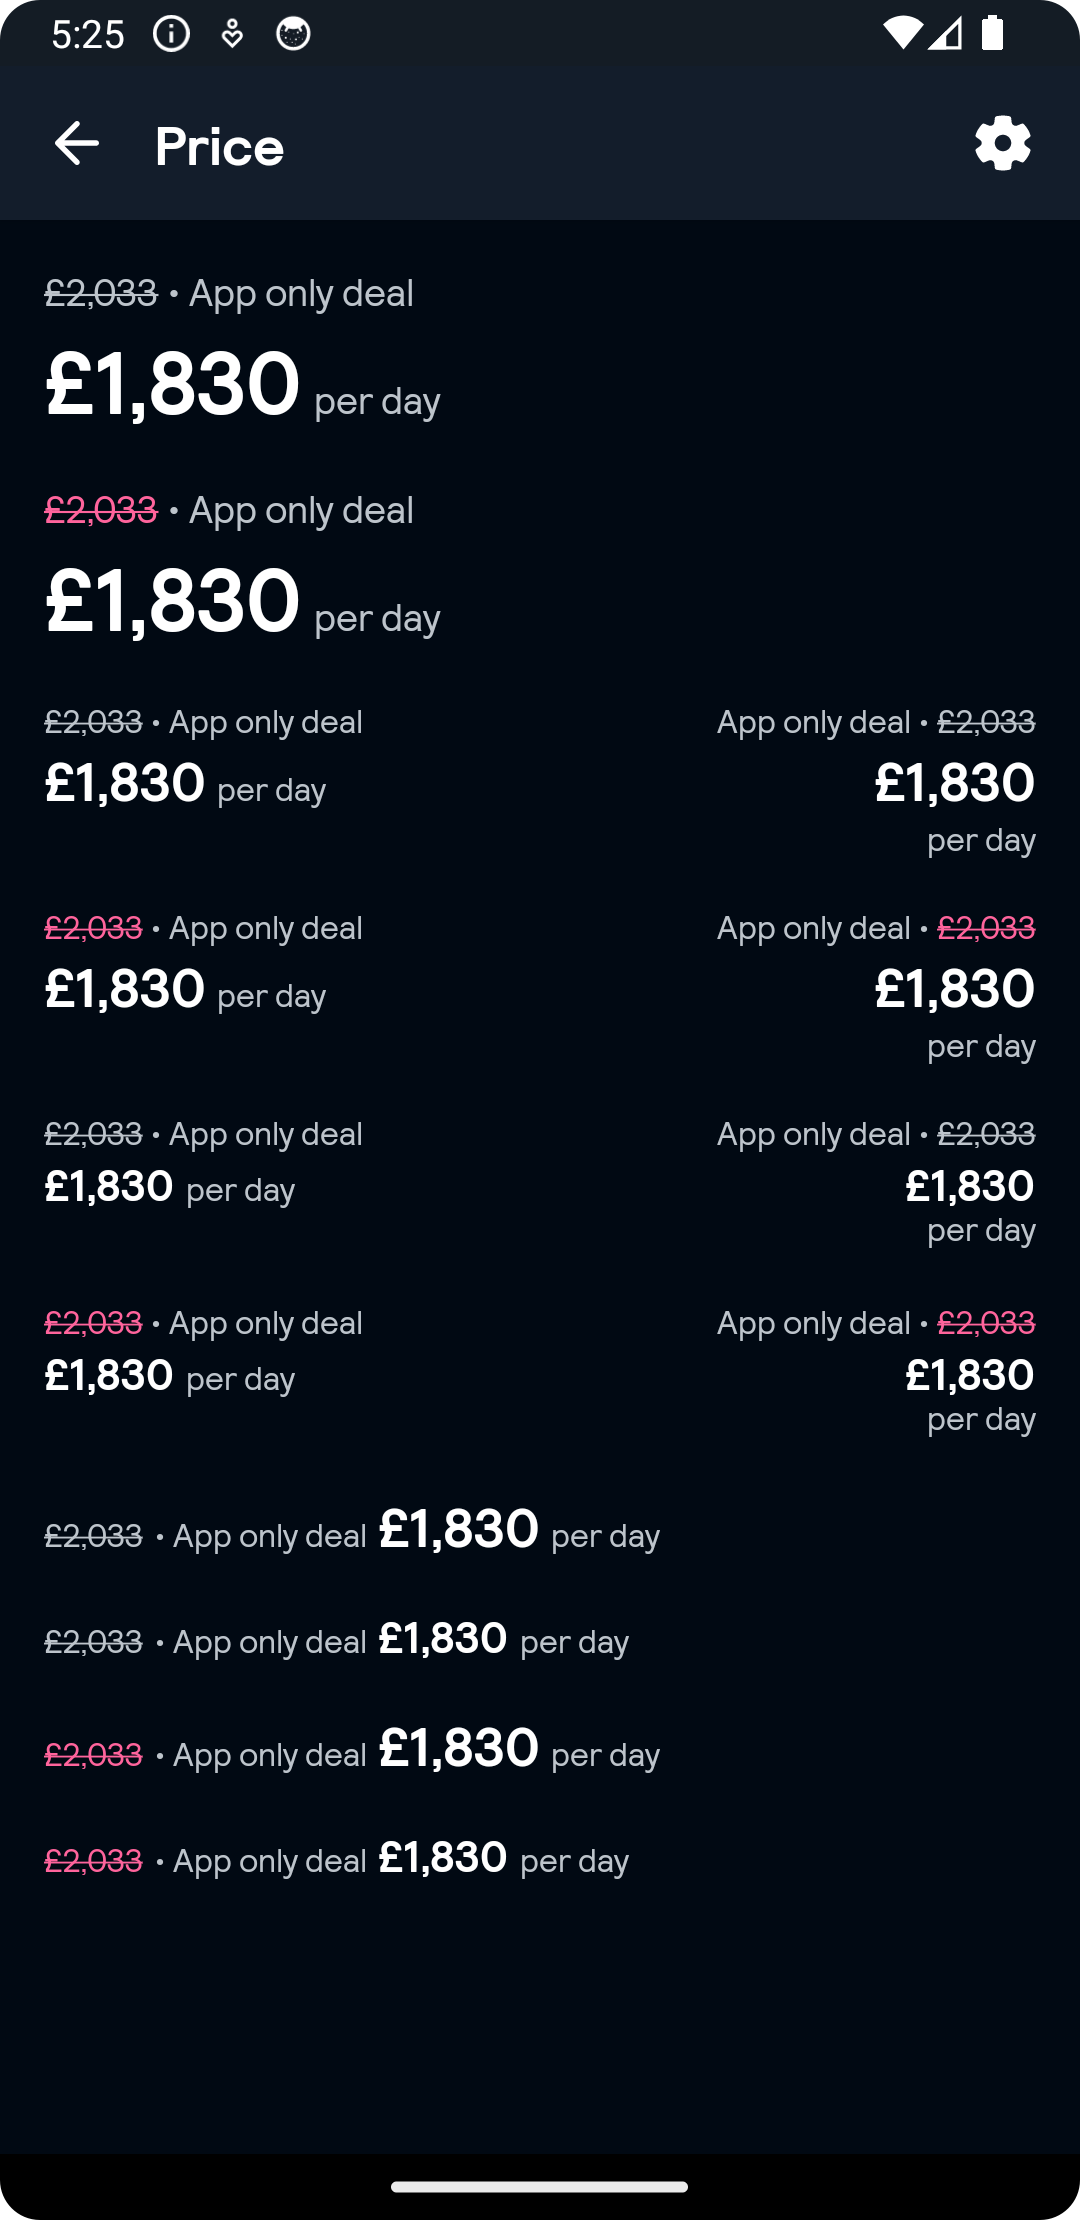
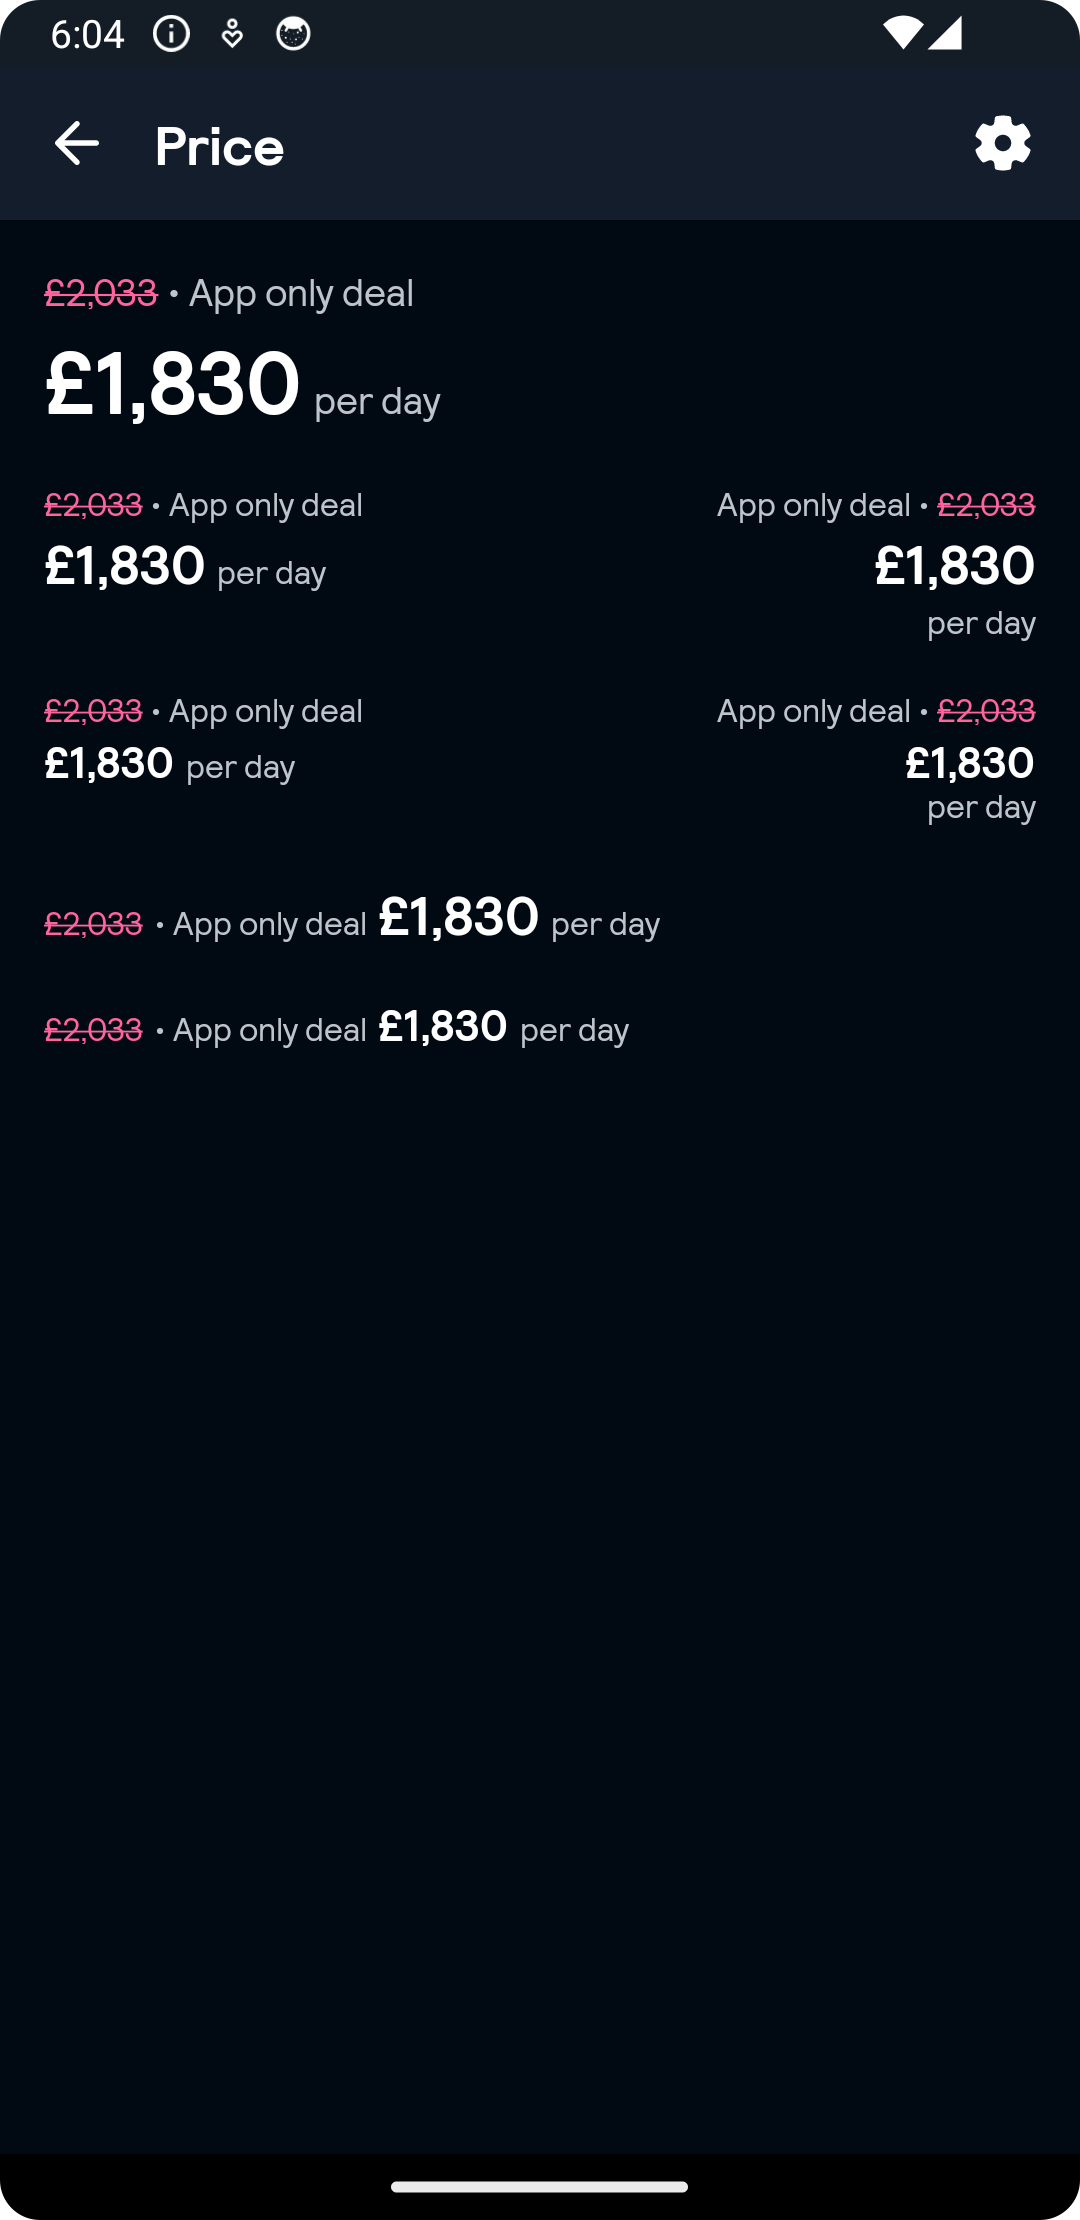
change BpkPrice previousPrice color

diff --git a/app/src/main/java/net/skyscanner/backpack/demo/compose/PriceStory.kt b/app/src/main/java/net/skyscanner/backpack/demo/compose/PriceStory.kt
@@ -26,12 +26,10 @@ import androidx.compose.foundation.layout.fillMaxWidth
 import androidx.compose.foundation.layout.padding
 import androidx.compose.runtime.Composable
 import androidx.compose.ui.Modifier
-import androidx.compose.ui.graphics.Color
 import androidx.compose.ui.res.stringResource
 import net.skyscanner.backpack.compose.price.BpkPrice
 import net.skyscanner.backpack.compose.price.BpkPriceAlign
 import net.skyscanner.backpack.compose.price.BpkPriceSize
-import net.skyscanner.backpack.compose.theme.BpkTheme
 import net.skyscanner.backpack.compose.tokens.BpkSpacing
 import net.skyscanner.backpack.demo.R
 import net.skyscanner.backpack.demo.components.PriceComponent
@@ -50,12 +48,6 @@ fun PriceStory(modifier: Modifier = Modifier) {
         PriceExample(
             size = BpkPriceSize.Large,
             align = BpkPriceAlign.Start,
-            previousPriceColor = null,
-        )
-        PriceExample(
-            size = BpkPriceSize.Large,
-            align = BpkPriceAlign.Start,
-            previousPriceColor = BpkTheme.colors.textError,
         )
         Row(
             modifier = Modifier.fillMaxWidth(),
@@ -64,27 +56,10 @@ fun PriceStory(modifier: Modifier = Modifier) {
             PriceExample(
                 size = BpkPriceSize.Small,
                 align = BpkPriceAlign.Start,
-                previousPriceColor = null,
             )
             PriceExample(
                 size = BpkPriceSize.Small,
                 align = BpkPriceAlign.End,
-                previousPriceColor = null,
-            )
-        }
-        Row(
-            modifier = Modifier.fillMaxWidth(),
-            horizontalArrangement = Arrangement.SpaceBetween,
-        ) {
-            PriceExample(
-                size = BpkPriceSize.Small,
-                align = BpkPriceAlign.Start,
-                previousPriceColor = BpkTheme.colors.textError,
-            )
-            PriceExample(
-                size = BpkPriceSize.Small,
-                align = BpkPriceAlign.End,
-                previousPriceColor = BpkTheme.colors.textError,
             )
         }
         Row(
@@ -94,54 +69,25 @@ fun PriceStory(modifier: Modifier = Modifier) {
             PriceExample(
                 size = BpkPriceSize.ExtraSmall,
                 align = BpkPriceAlign.Start,
-                previousPriceColor = null,
             )
             PriceExample(
                 size = BpkPriceSize.ExtraSmall,
                 align = BpkPriceAlign.End,
-                previousPriceColor = null,
-            )
-        }
-        Row(
-            modifier = Modifier.fillMaxWidth(),
-            horizontalArrangement = Arrangement.SpaceBetween,
-        ) {
-            PriceExample(
-                size = BpkPriceSize.ExtraSmall,
-                align = BpkPriceAlign.Start,
-                previousPriceColor = BpkTheme.colors.textError,
-            )
-            PriceExample(
-                size = BpkPriceSize.ExtraSmall,
-                align = BpkPriceAlign.End,
-                previousPriceColor = BpkTheme.colors.textError,
             )
         }
         PriceExample(
             size = BpkPriceSize.Small,
             align = BpkPriceAlign.Row,
-            previousPriceColor = null,
         )
         PriceExample(
             size = BpkPriceSize.ExtraSmall,
             align = BpkPriceAlign.Row,
-            previousPriceColor = null,
-        )
-        PriceExample(
-            size = BpkPriceSize.Small,
-            align = BpkPriceAlign.Row,
-            previousPriceColor = BpkTheme.colors.textError,
-        )
-        PriceExample(
-            size = BpkPriceSize.ExtraSmall,
-            align = BpkPriceAlign.Row,
-            previousPriceColor = BpkTheme.colors.textError,
         )
     }
 }
 
 @Composable
-private fun PriceExample(size: BpkPriceSize, align: BpkPriceAlign, previousPriceColor: Color?) {
+private fun PriceExample(size: BpkPriceSize, align: BpkPriceAlign) {
     BpkPrice(
         price = stringResource(id = R.string.price_price),
         previousPrice = stringResource(id = R.string.price_line_through_text),
@@ -149,6 +95,5 @@ private fun PriceExample(size: BpkPriceSize, align: BpkPriceAlign, previousPrice
         trailingText = stringResource(id = R.string.price_trailing_text),
         size = size,
         align = align,
-        previousPriceColor = previousPriceColor ?: BpkTheme.colors.textSecondary,
     )
 }

diff --git a/backpack-compose/src/main/kotlin/net/skyscanner/backpack/compose/price/BpkPrice.kt b/backpack-compose/src/main/kotlin/net/skyscanner/backpack/compose/price/BpkPrice.kt
@@ -20,11 +20,9 @@ package net.skyscanner.backpack.compose.price
 
 import androidx.compose.runtime.Composable
 import androidx.compose.ui.Modifier
-import androidx.compose.ui.graphics.Color
 import net.skyscanner.backpack.compose.price.internal.BpkPriceAlignEnd
 import net.skyscanner.backpack.compose.price.internal.BpkPriceAlignStart
 import net.skyscanner.backpack.compose.price.internal.BpkPriceRow
-import net.skyscanner.backpack.compose.theme.BpkTheme
 
 enum class BpkPriceAlign {
     Start,
@@ -45,7 +43,6 @@ fun BpkPrice(
     leadingText: String? = null,
     previousPrice: String? = null,
     trailingText: String? = null,
-    previousPriceColor: Color? = BpkTheme.colors.textSecondary,
     align: BpkPriceAlign = BpkPriceAlign.Start,
     size: BpkPriceSize = BpkPriceSize.Small,
 ) {
@@ -58,7 +55,6 @@ fun BpkPrice(
                 previousPrice = previousPrice,
                 trailingText = trailingText,
                 size = size,
-                previousPriceColor = previousPriceColor ?: BpkTheme.colors.textSecondary,
             )
         }
 
@@ -70,7 +66,6 @@ fun BpkPrice(
                 previousPrice = previousPrice,
                 trailingText = trailingText,
                 size = size,
-                previousPriceColor = previousPriceColor ?: BpkTheme.colors.textSecondary,
             )
         }
 
@@ -82,7 +77,6 @@ fun BpkPrice(
                 previousPrice = previousPrice,
                 trailingText = trailingText,
                 size = size,
-                previousPriceColor = previousPriceColor ?: BpkTheme.colors.textSecondary,
             )
         }
     }

diff --git a/app/src/test/java/net/skyscanner/backpack/compose/price/BpkPriceTest.kt b/app/src/test/java/net/skyscanner/backpack/compose/price/BpkPriceTest.kt
@@ -20,7 +20,6 @@ package net.skyscanner.backpack.compose.price
 
 import androidx.compose.ui.res.stringResource
 import net.skyscanner.backpack.compose.BpkSnapshotTest
-import net.skyscanner.backpack.compose.theme.BpkTheme
 import net.skyscanner.backpack.demo.R
 import org.junit.Test
 import org.junit.runner.RunWith
@@ -78,21 +77,6 @@ class BpkPriceTest(flavor: Flavor) : BpkSnapshotTest(listOf(flavor.size, flavor.
                 leadingText = stringResource(id = R.string.price_leading_text),
                 size = size,
                 align = align,
-            )
-        }
-    }
-
-    @Test
-    fun pricePreviousPriceColor() {
-        snap {
-            BpkPrice(
-                price = stringResource(id = R.string.price_price),
-                trailingText = stringResource(id = R.string.price_trailing_text),
-                previousPrice = stringResource(id = R.string.price_line_through_text),
-                leadingText = stringResource(id = R.string.price_leading_text),
-                size = size,
-                align = align,
-                previousPriceColor = BpkTheme.colors.textError,
             )
         }
     }

diff --git a/backpack-compose/src/main/kotlin/net/skyscanner/backpack/compose/price/internal/BpkPriceAlignStart.kt b/backpack-compose/src/main/kotlin/net/skyscanner/backpack/compose/price/internal/BpkPriceAlignStart.kt
@@ -25,7 +25,6 @@ import androidx.compose.foundation.layout.padding
 import androidx.compose.runtime.Composable
 import androidx.compose.ui.Alignment
 import androidx.compose.ui.Modifier
-import androidx.compose.ui.graphics.Color
 import androidx.compose.ui.text.style.TextDecoration
 import net.skyscanner.backpack.compose.price.BpkPriceSize
 import net.skyscanner.backpack.compose.text.BpkText
@@ -39,7 +38,6 @@ internal fun BpkPriceAlignStart(
     leadingText: String? = null,
     previousPrice: String? = null,
     trailingText: String? = null,
-    previousPriceColor: Color = BpkTheme.colors.textSecondary,
     size: BpkPriceSize = BpkPriceSize.Small,
 ) {
     Column(modifier = modifier) {
@@ -47,7 +45,7 @@ internal fun BpkPriceAlignStart(
             previousPrice?.let {
                 BpkText(
                     text = it,
-                    color = previousPriceColor,
+                    color = BpkTheme.colors.textError,
                     style = size.secondaryTextStyle(),
                     textDecoration = TextDecoration.LineThrough,
                 )

diff --git a/backpack-compose/src/main/kotlin/net/skyscanner/backpack/compose/price/internal/BpkPriceRow.kt b/backpack-compose/src/main/kotlin/net/skyscanner/backpack/compose/price/internal/BpkPriceRow.kt
@@ -22,7 +22,6 @@ import androidx.compose.foundation.layout.Arrangement
 import androidx.compose.foundation.layout.Row
 import androidx.compose.runtime.Composable
 import androidx.compose.ui.Modifier
-import androidx.compose.ui.graphics.Color
 import androidx.compose.ui.text.style.TextDecoration
 import net.skyscanner.backpack.compose.price.BpkPriceSize
 import net.skyscanner.backpack.compose.text.BpkText
@@ -36,7 +35,6 @@ internal fun BpkPriceRow(
     leadingText: String? = null,
     previousPrice: String? = null,
     trailingText: String? = null,
-    previousPriceColor: Color = BpkTheme.colors.textSecondary,
     size: BpkPriceSize = BpkPriceSize.Small,
 ) {
     Row(
@@ -47,7 +45,7 @@ internal fun BpkPriceRow(
             BpkText(
                 modifier = Modifier.alignByBaseline(),
                 text = it,
-                color = previousPriceColor,
+                color = BpkTheme.colors.textError,
                 style = size.secondaryTextStyle(),
                 textDecoration = TextDecoration.LineThrough,
             )

diff --git a/backpack-compose/src/main/kotlin/net/skyscanner/backpack/compose/price/internal/BpkPriceAlignEnd.kt b/backpack-compose/src/main/kotlin/net/skyscanner/backpack/compose/price/internal/BpkPriceAlignEnd.kt
@@ -24,7 +24,6 @@ import androidx.compose.foundation.layout.offset
 import androidx.compose.runtime.Composable
 import androidx.compose.ui.Alignment
 import androidx.compose.ui.Modifier
-import androidx.compose.ui.graphics.Color
 import androidx.compose.ui.text.style.TextDecoration
 import androidx.compose.ui.unit.dp
 import net.skyscanner.backpack.compose.price.BpkPriceSize
@@ -39,7 +38,6 @@ internal fun BpkPriceAlignEnd(
     leadingText: String? = null,
     previousPrice: String? = null,
     trailingText: String? = null,
-    previousPriceColor: Color = BpkTheme.colors.textSecondary,
     size: BpkPriceSize = BpkPriceSize.Small,
 ) {
     Column(
@@ -60,7 +58,7 @@ internal fun BpkPriceAlignEnd(
             previousPrice?.let {
                 BpkText(
                     text = it,
-                    color = previousPriceColor,
+                    color = BpkTheme.colors.textError,
                     style = size.secondaryTextStyle(),
                     textDecoration = TextDecoration.LineThrough,
                 )

diff --git a/docs/compose/Price/README.md b/docs/compose/Price/README.md
@@ -30,6 +30,5 @@ BpkPrice(
   trailingText = "per day",
   size = BpkPriceSize.Large,
   align = BpkPriceAlign.End,
-  previousPriceColor = BpkTheme.colors.textError,
 )
 ```
